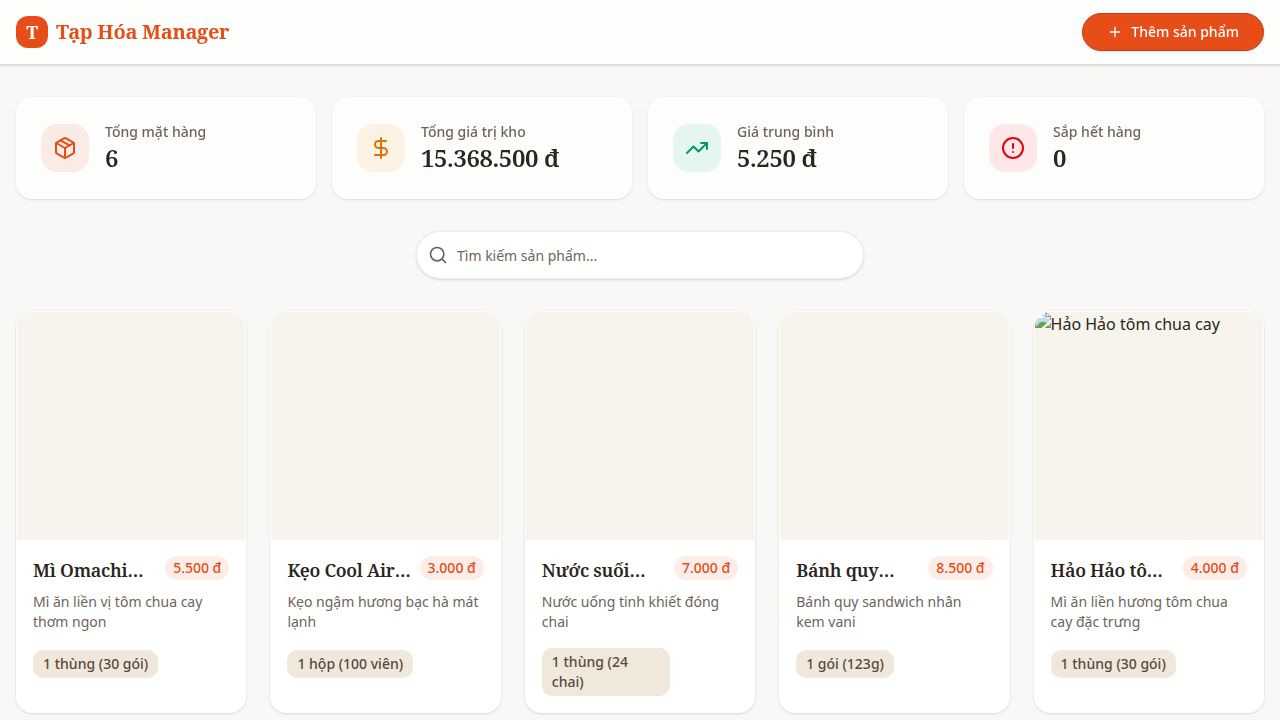
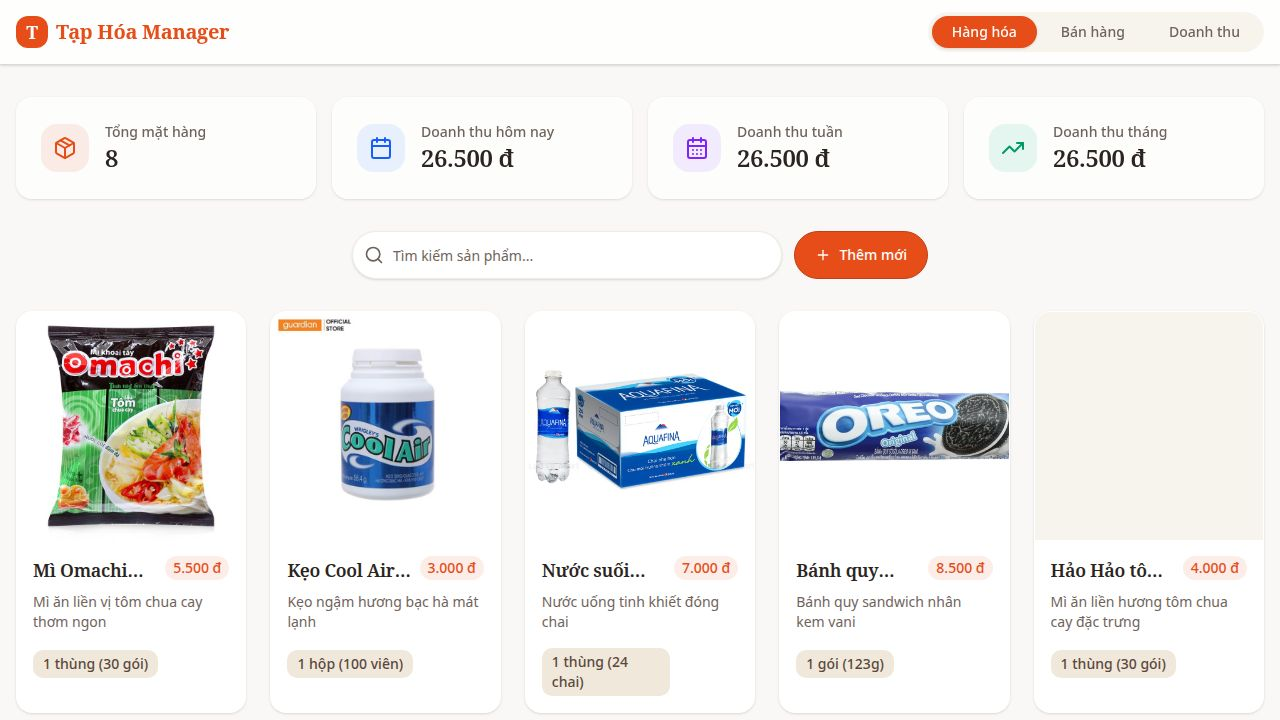
Make product listings more compact and buttons always visible
Update ProductCard component for a more compact layout and always-visible action buttons, and adjust grid columns in Home.tsx for better mobile responsiveness and display.

Replit-Commit-Author: Agent
Replit-Commit-Session-Id: 7d7c5412-0a33-4a1f-bf2c-f6e5ab499670
Replit-Commit-Checkpoint-Type: full_checkpoint
Replit-Commit-Event-Id: 1d531d58-11a6-4254-9c37-5130269d5091
Replit-Commit-Screenshot-Url: https://storage.googleapis.com/screenshot-production-us-central1/03287a2a-bcca-4c87-b1e8-3f0f71bc8445/7d7c5412-0a33-4a1f-bf2c-f6e5ab499670/Fb4iQ0d
Replit-Helium-Checkpoint-Created: true

diff --git a/artifacts/tapho-manager/src/components/ProductCard.tsx b/artifacts/tapho-manager/src/components/ProductCard.tsx
@@ -1,4 +1,4 @@
-import React, { useState, useEffect, useRef } from "react";
+import React, { useRef } from "react";
 import { Product } from "@workspace/api-client-react";
 import { Card, CardContent } from "@/components/ui/card";
 import { Button } from "@/components/ui/button";
@@ -56,42 +56,40 @@ export default function ProductCard({ product, onEdit, index }: ProductCardProps
   };
 
   return (
-    <Card 
-      className="overflow-hidden shadow-sm hover:shadow-md transition-all duration-300 group border-transparent bg-white animate-in fade-in slide-in-from-bottom-4"
+    <Card
+      className="overflow-hidden shadow-sm hover:shadow-md transition-all duration-300 border-transparent bg-white animate-in fade-in slide-in-from-bottom-4"
       style={{ animationDelay: `${index * 50}ms`, animationFillMode: "backwards" }}
     >
       <div className="aspect-square w-full bg-secondary/50 flex items-center justify-center relative overflow-hidden">
         {product.imageUrl ? (
-          <img src={product.imageUrl} alt={product.name} className="object-cover w-full h-full group-hover:scale-105 transition-transform duration-500" />
+          <img src={product.imageUrl} alt={product.name} className="object-cover w-full h-full" />
         ) : (
-          <ImageIcon className="w-12 h-12 text-muted-foreground/30" />
+          <ImageIcon className="w-8 h-8 text-muted-foreground/30" />
         )}
       </div>
-      <CardContent className="p-4">
-        <div className="flex justify-between items-start mb-2">
-          <h3 className="font-serif font-semibold text-lg line-clamp-1 flex-1 pr-2" title={product.name}>{product.name}</h3>
-          <span className="font-medium text-primary bg-primary/10 px-2 py-0.5 rounded-full text-sm whitespace-nowrap">
-            {formatVND(product.price)}
+      <CardContent className="p-3">
+        <p className="font-medium text-sm line-clamp-1 mb-0.5" title={product.name}>{product.name}</p>
+        <p className="text-primary text-sm font-semibold mb-2">{formatVND(product.price)}</p>
+        <div className="flex items-center justify-between">
+          <span className="text-xs font-medium bg-secondary px-2 py-0.5 rounded-md text-secondary-foreground">
+            {product.quantity ?? "N/A"}
           </span>
-        </div>
-        <p className="text-sm text-muted-foreground mb-4 line-clamp-2 min-h-[40px]">
-          {product.description || "Không có mô tả"}
-        </p>
-        <div className="flex items-center justify-between mt-auto">
-          <span className="text-sm font-medium bg-secondary px-2.5 py-1 rounded-md text-secondary-foreground">
-            {product.quantity || "N/A"}
-          </span>
-          <div className="flex space-x-1 opacity-0 group-hover:opacity-100 transition-opacity">
-            <Button variant="ghost" size="icon" className="h-8 w-8 text-muted-foreground hover:text-foreground" onClick={() => onEdit(product)}>
-              <Pencil className="h-4 w-4" />
+          <div className="flex gap-0.5">
+            <Button
+              variant="ghost"
+              size="icon"
+              className="h-7 w-7 text-muted-foreground hover:text-foreground"
+              onClick={() => onEdit(product)}
+            >
+              <Pencil className="h-3.5 w-3.5" />
             </Button>
             <AlertDialog>
               <AlertDialogTrigger asChild>
-                <Button variant="ghost" size="icon" className="h-8 w-8 text-destructive/70 hover:text-destructive hover:bg-destructive/10">
-                  <Trash2 className="h-4 w-4" />
+                <Button variant="ghost" size="icon" className="h-7 w-7 text-destructive/60 hover:text-destructive hover:bg-destructive/10">
+                  <Trash2 className="h-3.5 w-3.5" />
                 </Button>
               </AlertDialogTrigger>
-              <AlertDialogContent>
+              <AlertDialogContent className="max-w-[90vw] sm:max-w-md">
                 <AlertDialogHeader>
                   <AlertDialogTitle>Xóa mặt hàng này?</AlertDialogTitle>
                   <AlertDialogDescription>

diff --git a/artifacts/tapho-manager/src/pages/Home.tsx b/artifacts/tapho-manager/src/pages/Home.tsx
@@ -86,13 +86,13 @@ export default function Home() {
         </div>
 
         {isLoadingProducts ? (
-          <div className="grid grid-cols-1 sm:grid-cols-2 md:grid-cols-3 lg:grid-cols-4 xl:grid-cols-5 gap-6">
+          <div className="grid grid-cols-2 sm:grid-cols-3 md:grid-cols-4 lg:grid-cols-5 xl:grid-cols-6 gap-3">
             {[1, 2, 3, 4, 5, 6, 7, 8, 9, 10].map((i) => (
-              <Skeleton key={i} className="aspect-[3/4] w-full rounded-xl" />
+              <Skeleton key={i} className="aspect-square w-full rounded-xl" />
             ))}
           </div>
         ) : products && products.length > 0 ? (
-          <div className="grid grid-cols-1 sm:grid-cols-2 md:grid-cols-3 lg:grid-cols-4 xl:grid-cols-5 gap-6">
+          <div className="grid grid-cols-2 sm:grid-cols-3 md:grid-cols-4 lg:grid-cols-5 xl:grid-cols-6 gap-3">
             {products.map((product, idx) => (
               <ProductCard key={product.id} product={product} onEdit={handleEdit} index={idx} />
             ))}
@@ -116,7 +116,7 @@ export default function Home() {
       </main>
 
       <Dialog open={isFormOpen} onOpenChange={setIsFormOpen}>
-        <DialogContent className="sm:max-w-[500px] p-0 overflow-hidden bg-background">
+        <DialogContent className="w-[95vw] max-w-[500px] p-0 overflow-hidden bg-background max-h-[90vh] overflow-y-auto">
           <DialogHeader className="p-6 pb-2">
             <DialogTitle className="font-serif text-xl">
               {editingProduct ? "Sửa thông tin sản phẩm" : "Thêm sản phẩm mới"}